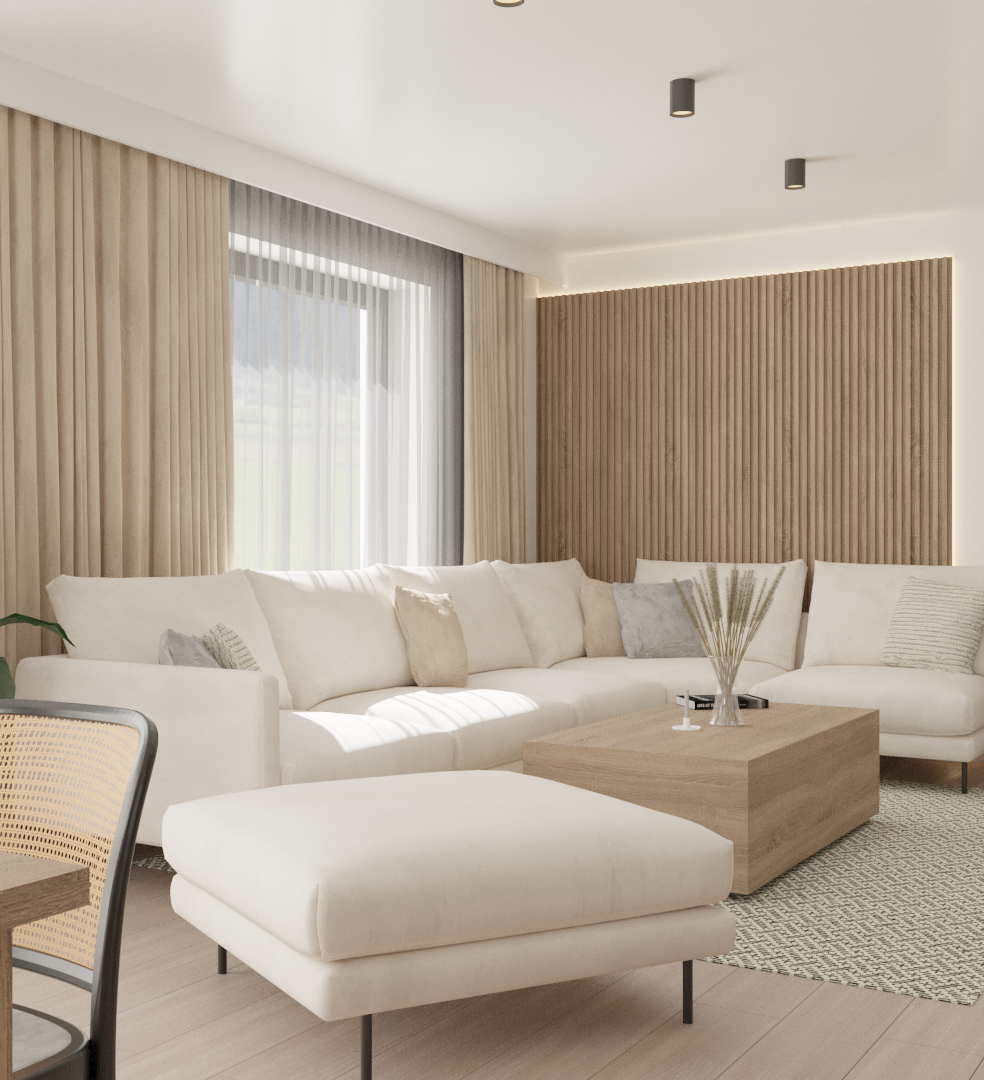
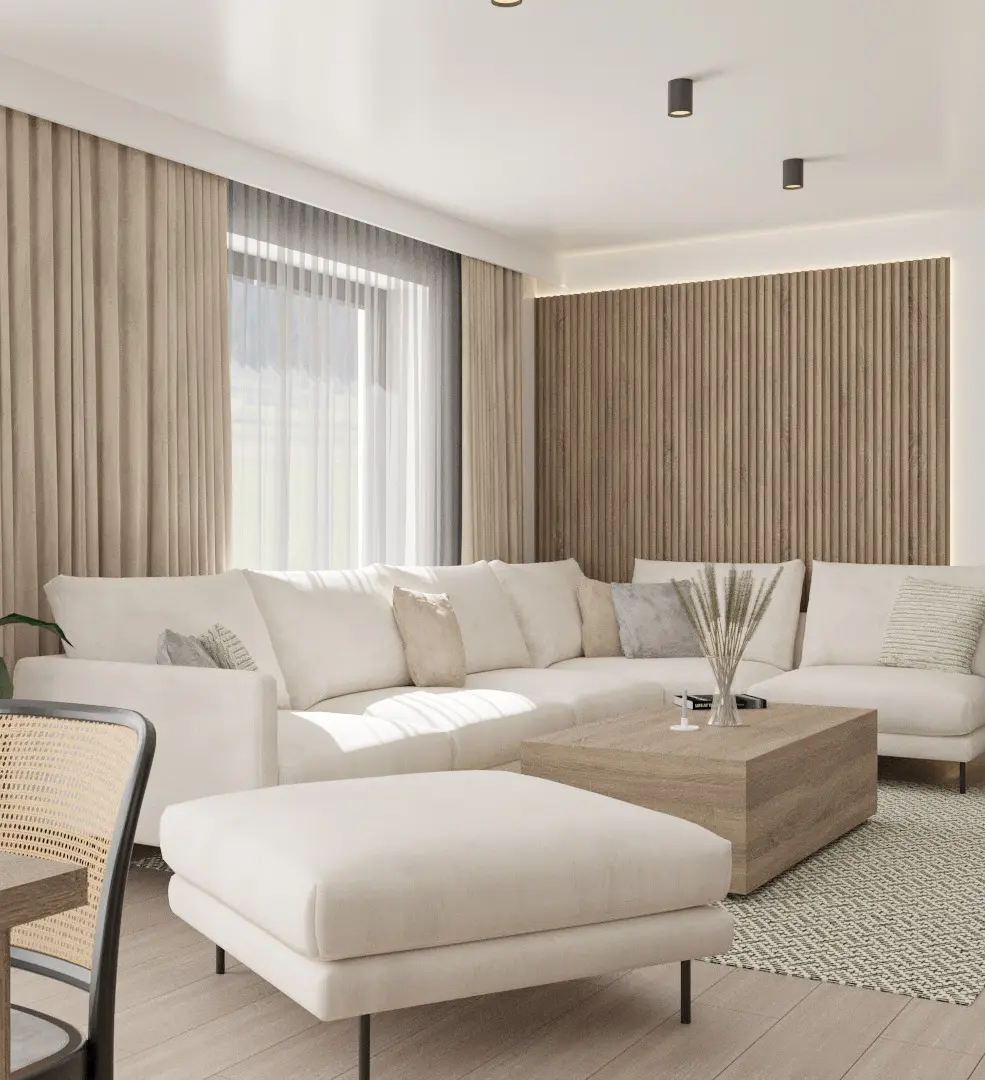
change main photos

diff --git a/index.html b/index.html
@@ -135,7 +135,7 @@
                     <div class="d-flex flex-column align-items-center">
                         <h4>mgr inż. arch. Simona Lorenc</h4>
                         <p class="col-12 col-md-8 text-justify">
-                            Jestem absolwentką wydziału Architektury na Politechnice Krakowskiej. Zdobyłam doświadczenie  pracując zarówno dla polskich, jak i zagranicznych pracowni architektonicznych. Projektowanie wnętrz jest moją pasją. Jestem sumienną, ambitną i kreatywną osobą. Uważam, że projekt wnętrza powinien piękny, pratyczny oraz odpowiadać potrzebom Klienta, i właśnie tak projektuję. Wnętrza zaprojektowane przeze mnie są spójne, a wszystkie jego elementy tworzą logiczną całość.
+                            Jestem absolwentką wydziału Architektury na Politechnice Krakowskiej. Zdobyłam doświadczenie  pracując zarówno dla polskich, jak i zagranicznych pracowni architektonicznych. Projektowanie wnętrz jest moją pasją. Jestem sumienną, ambitną i kreatywną osobą. Uważam, że projekt wnętrza powinien być piękny, pratyczny oraz odpowiadać potrzebom Klienta, i właśnie tak projektuję. Wnętrza zaprojektowane przeze mnie są spójne, a wszystkie jego elementy tworzą logiczną całość.
                         </p>
                     </div>
                 </div>
@@ -154,7 +154,7 @@
                 <!-- #1 -->
                 <div class="portfolio-square col-12 col-md-6 pb-3">
                     <a href="1.html">
-                        <img src="photos/portfolio/1/2-main.jpg" class="portfolio-img img-fluid" alt=""/>
+                        <img src="photos/portfolio/1/2-main.webp" class="portfolio-img img-fluid" alt=""/>
                     </a>
                 </div>
 
@@ -182,7 +182,7 @@
                 <!-- #5 -->
                 <div class="portfolio-square col-12 col-md-6 pb-3">
                     <a href="5.html">
-                        <img src="photos/portfolio/5/1-main.jpg" class="portfolio-img img-fluid" alt=""/>
+                        <img src="photos/portfolio/5/1-main.webp" class="portfolio-img img-fluid" alt=""/>
                     </a>
                 </div>
 
@@ -196,21 +196,21 @@
                 <!-- #7 -->
                 <div class="portfolio-square col-12 col-md-6 pb-3">
                     <a href="7.html">
-                        <img src="photos/portfolio/7/5-main.jpg" class="portfolio-img img-fluid" alt=""/>
+                        <img src="photos/portfolio/7/5-main.webp" class="portfolio-img img-fluid" alt=""/>
                     </a>
                 </div>
 
                 <!-- #8 -->
                 <div class="portfolio-square col-12 col-md-6 pb-3">
                     <a href="8.html">
-                        <img src="photos/portfolio/8/1-main.jpg" class="portfolio-img img-fluid" alt=""/>
+                        <img src="photos/portfolio/8/1-main.webp" class="portfolio-img img-fluid" alt=""/>
                     </a>
                 </div>
 
                 <!-- #9 -->
                 <div class="portfolio-square col-12 col-md-6 pb-3">
                     <a href="9.html">
-                        <img src="photos/portfolio/9/1-main.jpg" class="portfolio-img img-fluid" alt=""/>
+                        <img src="photos/portfolio/9/1-main.webp" class="portfolio-img img-fluid" alt=""/>
                     </a>
                 </div>
             </div>

diff --git a/7.html b/7.html
@@ -132,7 +132,7 @@
                       <a href="2.jpg" data-ngthumb="2.jpg" data-ngdesc=""></a>
                       <a href="3.jpg" data-ngthumb="3.jpg" data-ngdesc=""></a>
                       <a href="4.jpg" data-ngthumb="4.jpg" data-ngdesc=""></a>
-                      <a href="5-main.jpg" data-ngthumb="5-main.jpg" data-ngdesc=""></a>
+                      <a href="5-main.webp" data-ngthumb="5-main.webp" data-ngdesc=""></a>
                       <a href="6.jpg" data-ngthumb="6.jpg" data-ngdesc=""></a>
                       <a href="7.jpg" data-ngthumb="7.jpg" data-ngdesc=""></a>
                       <a href="8.jpg" data-ngthumb="8.jpg" data-ngdesc=""></a>

diff --git a/1.html b/1.html
@@ -129,7 +129,7 @@
                         "thumbnailHoverEffect2": "image_scale_100%_98%_300"
                       }'>
                       <a href="1.jpg" data-ngthumb="1.jpg" data-ngdesc=""></a>
-                      <a href="2-main.jpg" data-ngthumb="2-main.jpg" data-ngdesc=""></a>
+                      <a href="2-main.webp" data-ngthumb="2-main.webp" data-ngdesc=""></a>
                       <a href="3.jpg" data-ngthumb="3.jpg" data-ngdesc=""></a>
                       <a href="4.jpg" data-ngthumb="4.jpg" data-ngdesc=""></a>
                       <a href="5.jpg" data-ngthumb="5.jpg" data-ngdesc=""></a>

diff --git a/8.html b/8.html
@@ -128,7 +128,7 @@
                         },
                         "thumbnailHoverEffect2": "image_scale_100%_98%_300"
                       }'>
-                      <a href="1-main.jpg" data-ngthumb="1-main.jpg" data-ngdesc=""></a>
+                      <a href="1-main.webp" data-ngthumb="1-main.webp" data-ngdesc=""></a>
                       <a href="2.jpg" data-ngthumb="2.jpg" data-ngdesc=""></a>
                       <a href="3.jpg" data-ngthumb="3.jpg" data-ngdesc=""></a>
                       <a href="4.jpg" data-ngthumb="4.jpg" data-ngdesc=""></a>

diff --git a/9.html b/9.html
@@ -128,7 +128,7 @@
                         },
                         "thumbnailHoverEffect2": "image_scale_100%_98%_300"
                       }'>
-                      <a href="1-main.jpg" data-ngthumb="1-main.jpg" data-ngdesc=""></a>
+                      <a href="1-main.webp" data-ngthumb="1-main.webp" data-ngdesc=""></a>
                       <a href="2.jpg" data-ngthumb="2.jpg" data-ngdesc=""></a>
                       <a href="3.jpg" data-ngthumb="3.jpg" data-ngdesc=""></a>
                       <a href="4.jpg" data-ngthumb="4.jpg" data-ngdesc=""></a>

diff --git a/5.html b/5.html
@@ -128,7 +128,7 @@
                         },
                         "thumbnailHoverEffect2": "image_scale_100%_98%_300"
                       }'>
-                      <a href="1-main.jpg" data-ngthumb="1-main.jpg" data-ngdesc=""></a>
+                      <a href="1-main.webp" data-ngthumb="1-main.webp" data-ngdesc=""></a>
                       <a href="2.jpg" data-ngthumb="2.jpg" data-ngdesc=""></a>
                       <a href="3.jpg" data-ngthumb="3.jpg" data-ngdesc=""></a>
 
